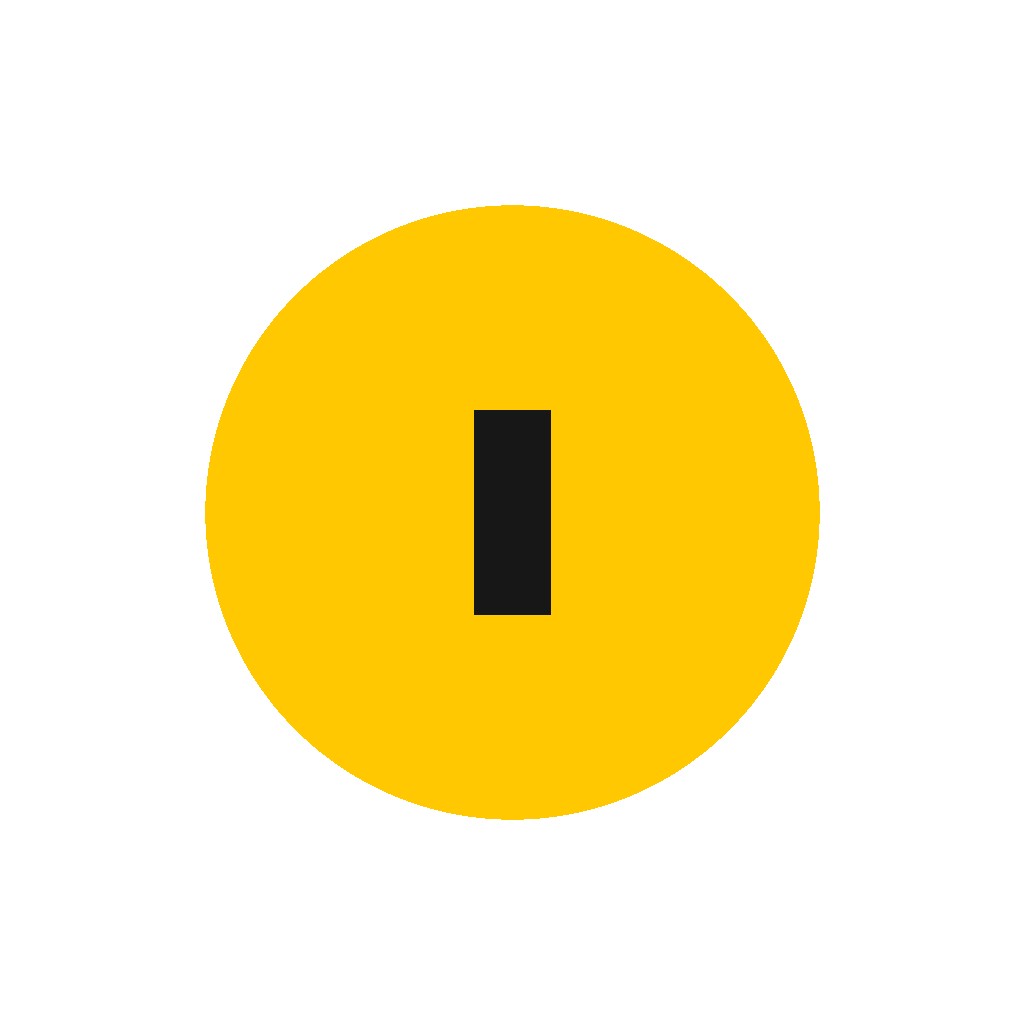
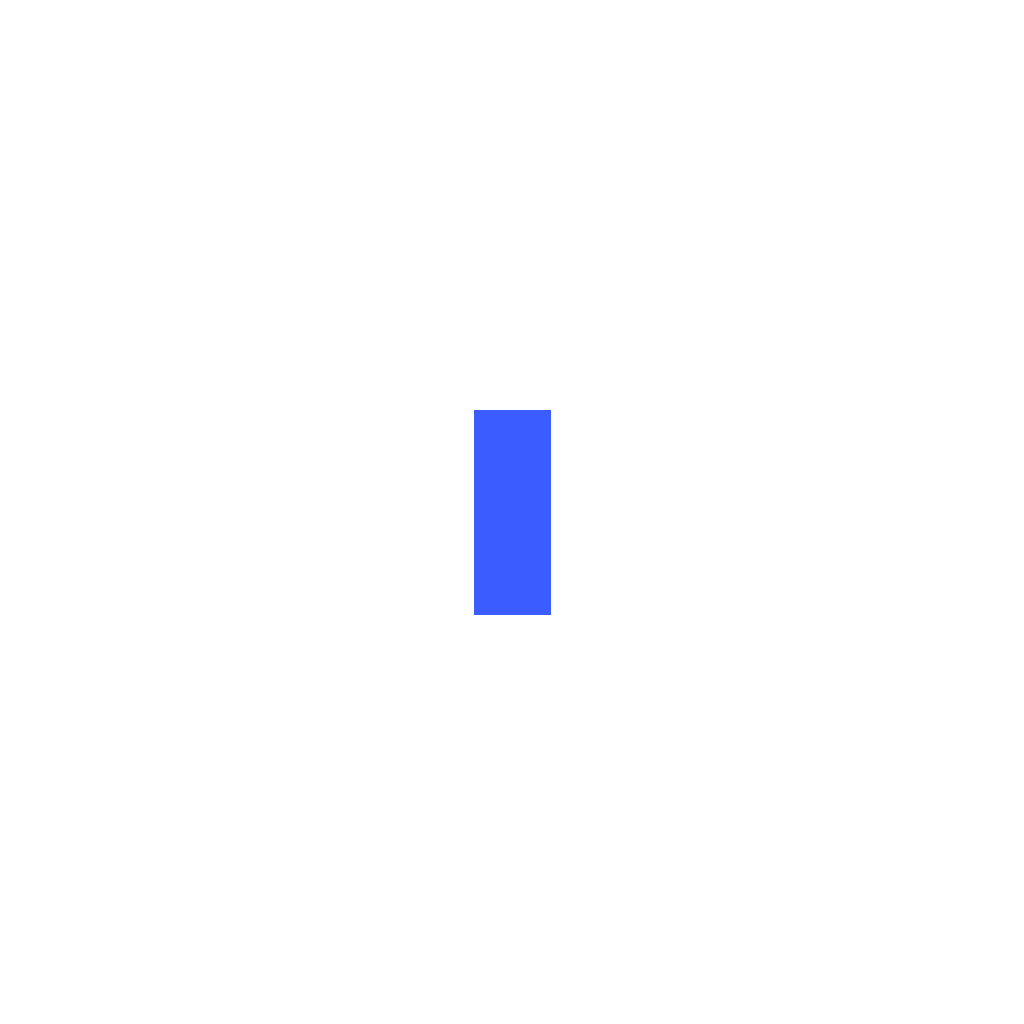
Rebrand to blue + redesign Registros (Monifi-inspired)
Scoped redesign pass, first of several planned screen-by-screen:

- src/theme/colors.ts: new blue-based palette (colors.brand/brandDark/
  brandTint/onBrand) replacing the yellow one, per the user's choice to
  match the Monifi reference. Shared chrome (Header, PrimaryButton, FAB,
  tab bar active tint, category-selected accent, progress ring/bar) picks
  this up automatically.
- app/(tabs)/index.tsx (Registros): full relayout — big rounded blue hero
  card with the month picker as a pill, a prominent net 'Balance del mes',
  and two pill-shaped Gastos/Ingreso stat chips (Monifi's Request/Send
  pattern adapted to our two running totals). Transaction list is now
  flat white rounded rows instead of a bordered box-list.
- src/components/TransactionRow.tsx: bigger avatar, no hard borders,
  individual rounded cards with spacing instead of a boxed list.
- src/components/TransactionEditorModal.tsx: header is now a plain white
  bar (was solid yellow) with a bottom divider; the '=' key is solid
  brand blue with white text, 'Hoy' uses the light blue tint.
- app.json + assets/images/*: placeholder icon/splash regenerated in the
  new blue.

Not yet touched (next up, per plan): Cuadro, Informes, Yo layouts — they
already inherit the new blue accent via the shared components above, but
their own card/section layout is unchanged for now.

Claude-Session: https://claude.ai/code/session_016G8CdLTiiyQ35orVPFqvBT

Changed region(s): [[0.1875, 0.1875, 0.8125, 0.8125]]

diff --git a/mis-gastos-pro-native/app/(tabs)/index.tsx b/mis-gastos-pro-native/app/(tabs)/index.tsx
@@ -5,7 +5,7 @@ import { SafeAreaView } from 'react-native-safe-area-context';
 
 import { Header } from '@/src/components/Header';
 import { OptionPickerModal } from '@/src/components/OptionPickerModal';
-import { Card, EmptyState } from '@/src/components/ui';
+import { EmptyState } from '@/src/components/ui';
 import { TransactionRow } from '@/src/components/TransactionRow';
 import { categoryById, totals, transactionsForMonth, useStore } from '@/src/state/store';
 import { useToast } from '@/src/state/toast';
@@ -30,6 +30,7 @@ export default function HomeScreen() {
 
   const monthList = useMemo(() => transactionsForMonth(state, monthKey), [state, monthKey]);
   const monthTotals = useMemo(() => totals(monthList), [monthList]);
+  const balance = monthTotals.income - monthTotals.expense;
 
   const filtered = useMemo(() => {
     const q = search.trim().toLowerCase();
@@ -73,32 +74,45 @@ export default function HomeScreen() {
         keyExtractor={(g) => g.date}
         ListHeaderComponent={
           <>
-            <Card style={styles.hero}>
-              <Text style={styles.heroTitle}>Administrador de dinero</Text>
-              <View style={styles.periodStrip}>
-                <Pressable style={styles.periodBox} onPress={() => setMonthPickerOpen(true)}>
-                  <Text style={styles.metricLabel}>Periodo</Text>
-                  <Text style={styles.periodValue} numberOfLines={1} adjustsFontSizeToFit>
-                    {monthLabel}
-                  </Text>
-                </Pressable>
-                <View style={styles.metric}>
-                  <Text style={styles.metricLabel}>Gastos</Text>
-                  <Text style={[styles.metricValue, styles.expenseColor]} numberOfLines={1} adjustsFontSizeToFit>
-                    −{formatMoney(monthTotals.expense, state.currency)}
-                  </Text>
+            <View style={styles.hero}>
+              <Pressable style={styles.periodPill} onPress={() => setMonthPickerOpen(true)}>
+                <Text style={styles.periodPillText}>{monthLabel}</Text>
+                <Text style={styles.periodPillChevron}>⌄</Text>
+              </Pressable>
+
+              <Text style={styles.balanceLabel}>Balance del mes</Text>
+              <Text style={styles.balanceValue} numberOfLines={1} adjustsFontSizeToFit>
+                {formatMoney(balance, state.currency)}
+              </Text>
+
+              <View style={styles.statRow}>
+                <View style={styles.statPill}>
+                  <View style={[styles.statIconWrap, styles.statIconExpense]}>
+                    <Text style={styles.statIcon}>↙</Text>
+                  </View>
+                  <View style={{ flex: 1 }}>
+                    <Text style={styles.statLabel}>Gastos</Text>
+                    <Text style={styles.statValue} numberOfLines={1} adjustsFontSizeToFit>
+                      −{formatMoney(monthTotals.expense, state.currency)}
+                    </Text>
+                  </View>
                 </View>
-                <View style={styles.metric}>
-                  <Text style={styles.metricLabel}>Ingreso</Text>
-                  <Text style={[styles.metricValue, styles.incomeColor]} numberOfLines={1} adjustsFontSizeToFit>
-                    {formatMoney(monthTotals.income, state.currency)}
-                  </Text>
+                <View style={styles.statPill}>
+                  <View style={[styles.statIconWrap, styles.statIconIncome]}>
+                    <Text style={styles.statIcon}>↗</Text>
+                  </View>
+                  <View style={{ flex: 1 }}>
+                    <Text style={styles.statLabel}>Ingreso</Text>
+                    <Text style={styles.statValue} numberOfLines={1} adjustsFontSizeToFit>
+                      {formatMoney(monthTotals.income, state.currency)}
+                    </Text>
+                  </View>
                 </View>
               </View>
-            </Card>
+            </View>
 
             <View style={styles.searchRow}>
-              <TextInput style={styles.search} placeholder="Buscar por categoría, nota o cuenta" value={search} onChangeText={setSearch} />
+              <TextInput style={styles.search} placeholder="Buscar por categoría, nota o cuenta" value={search} onChangeText={setSearch} placeholderTextColor={colors.muted} />
               <Pressable style={styles.iconBtn} onPress={exportCsv}>
                 <Text style={{ fontSize: 16 }}>⇩</Text>
               </Pressable>
@@ -110,14 +124,14 @@ export default function HomeScreen() {
         renderItem={({ item }) => {
           const dayTotals = totals(item.items);
           return (
-            <View style={{ marginBottom: 4 }}>
+            <View style={styles.dayGroup}>
               <View style={styles.dayTitle}>
                 <Text style={styles.dayTitleText}>{dayLabel(item.date)}</Text>
-                <Text style={styles.dayTitleText}>
-                  Gastos: −{formatMoney(dayTotals.expense, state.currency)}  Ingreso: {formatMoney(dayTotals.income, state.currency)}
+                <Text style={styles.dayTitleTotals}>
+                  −{formatMoney(dayTotals.expense, state.currency)} · +{formatMoney(dayTotals.income, state.currency)}
                 </Text>
               </View>
-              <View style={styles.txList}>
+              <View>
                 {item.items.map((t) => (
                   <TransactionRow
                     key={t.id}
@@ -143,21 +157,55 @@ export default function HomeScreen() {
 
 const styles = StyleSheet.create({
   screen: { flex: 1, backgroundColor: colors.bg },
-  content: { padding: 14, paddingBottom: 24 },
-  hero: { backgroundColor: colors.yellow, padding: 18, borderWidth: 0 },
-  heroTitle: { textAlign: 'center', fontWeight: '900', fontSize: 19, marginBottom: 14, color: colors.ink },
-  periodStrip: { flexDirection: 'row', alignItems: 'flex-end', gap: 10 },
-  periodBox: { width: 118 },
-  periodValue: { fontSize: 22, fontWeight: '900', color: colors.ink },
-  metric: { flex: 1, alignItems: 'center' },
-  metricLabel: { color: colors.heroLabel, fontSize: 12, marginBottom: 4 },
-  metricValue: { fontSize: 20, fontWeight: '700', fontVariant: ['tabular-nums'] },
-  expenseColor: { color: '#A91F2C' },
-  incomeColor: { color: '#087B40' },
-  searchRow: { flexDirection: 'row', gap: 8, marginVertical: 13 },
+  content: { padding: 16, paddingBottom: 24 },
+  hero: {
+    backgroundColor: colors.brand,
+    borderRadius: 28,
+    padding: 22,
+    marginBottom: 16,
+    shadowColor: colors.brand,
+    shadowOpacity: 0.28,
+    shadowRadius: 18,
+    shadowOffset: { width: 0, height: 10 },
+    elevation: 3,
+  },
+  periodPill: {
+    alignSelf: 'flex-start',
+    flexDirection: 'row',
+    alignItems: 'center',
+    gap: 4,
+    backgroundColor: 'rgba(255,255,255,0.16)',
+    borderRadius: 999,
+    paddingVertical: 6,
+    paddingHorizontal: 12,
+    marginBottom: 16,
+  },
+  periodPillText: { color: colors.onBrand, fontWeight: '700', fontSize: 13 },
+  periodPillChevron: { color: colors.onBrand, fontSize: 13 },
+  balanceLabel: { color: colors.heroLabel, fontSize: 13, fontWeight: '600', marginBottom: 4 },
+  balanceValue: { color: colors.onBrand, fontSize: 34, fontWeight: '900', marginBottom: 18 },
+  statRow: { flexDirection: 'row', gap: 10 },
+  statPill: {
+    flex: 1,
+    flexDirection: 'row',
+    alignItems: 'center',
+    gap: 8,
+    backgroundColor: 'rgba(255,255,255,0.14)',
+    borderRadius: 16,
+    padding: 10,
+    minWidth: 0,
+  },
+  statIconWrap: { width: 28, height: 28, borderRadius: 14, alignItems: 'center', justifyContent: 'center' },
+  statIconExpense: { backgroundColor: 'rgba(224,60,68,0.55)' },
+  statIconIncome: { backgroundColor: 'rgba(18,183,106,0.55)' },
+  statIcon: { color: colors.onBrand, fontSize: 13, fontWeight: '900' },
+  statLabel: { color: colors.heroLabel, fontSize: 11, fontWeight: '600' },
+  statValue: { color: colors.onBrand, fontSize: 14, fontWeight: '800' },
+  searchRow: { flexDirection: 'row', gap: 8, marginBottom: 8 },
   search: { flex: 1, borderWidth: 1, borderColor: colors.line, backgroundColor: '#fff', borderRadius: 14, padding: 12, color: colors.ink },
   iconBtn: { borderWidth: 1, borderColor: colors.line, backgroundColor: '#fff', borderRadius: 14, minWidth: 46, alignItems: 'center', justifyContent: 'center' },
-  dayTitle: { flexDirection: 'row', flexWrap: 'wrap', justifyContent: 'space-between', rowGap: 2, paddingHorizontal: 4, paddingTop: 10, paddingBottom: 6 },
-  dayTitleText: { fontSize: 12, color: colors.muted, fontWeight: '700' },
-  txList: { backgroundColor: '#fff', borderRadius: 18, borderWidth: 1, borderColor: colors.line, overflow: 'hidden' },
+  dayGroup: { marginTop: 18 },
+  dayTitle: { flexDirection: 'row', flexWrap: 'wrap', justifyContent: 'space-between', rowGap: 2, paddingHorizontal: 4, paddingBottom: 8 },
+  dayTitleText: { fontSize: 13, color: colors.ink, fontWeight: '800' },
+  dayTitleTotals: { fontSize: 12, color: colors.muted, fontWeight: '600' },
 });

diff --git a/mis-gastos-pro-native/src/components/TransactionEditorModal.tsx b/mis-gastos-pro-native/src/components/TransactionEditorModal.tsx
@@ -178,7 +178,7 @@ const styles = StyleSheet.create({
   overlay: { flex: 1, backgroundColor: 'rgba(0,0,0,0.5)', justifyContent: 'flex-end' },
   kav: { maxHeight: '94%' },
   sheet: { backgroundColor: '#fff', borderTopLeftRadius: 26, borderTopRightRadius: 26, overflow: 'hidden' },
-  header: { backgroundColor: colors.yellow, paddingHorizontal: 16, paddingTop: 14, paddingBottom: 14 },
+  header: { backgroundColor: colors.card, borderBottomWidth: 1, borderBottomColor: colors.line, paddingHorizontal: 16, paddingTop: 14, paddingBottom: 14 },
   titleRow: { flexDirection: 'row', alignItems: 'center', justifyContent: 'space-between', marginBottom: 10 },
   title: { fontWeight: '900', fontSize: 16, color: colors.ink },
   segment: { flexDirection: 'row', borderWidth: 1, borderColor: '#222', borderRadius: 8, overflow: 'hidden' },
@@ -198,10 +198,10 @@ const styles = StyleSheet.create({
   memo: { backgroundColor: '#fff', borderRadius: 8, padding: 13, marginBottom: 10, color: colors.ink },
   keypad: { flexDirection: 'row', flexWrap: 'wrap', gap: 7 },
   key: { width: '23.2%', backgroundColor: '#fff', borderRadius: 7, minHeight: 54, alignItems: 'center', justifyContent: 'center' },
-  keyAction: { backgroundColor: '#fff7ce' },
-  keyEqual: { backgroundColor: colors.yellow },
+  keyAction: { backgroundColor: colors.brandTint },
+  keyEqual: { backgroundColor: colors.brand },
   keyText: { fontSize: 20, color: colors.ink },
-  keyEqualText: { fontWeight: '900' },
+  keyEqualText: { fontWeight: '900', color: colors.onBrand },
   dateAccount: { flexDirection: 'row', gap: 8, marginTop: 9 },
   field: { flex: 1, backgroundColor: '#fff', borderRadius: 8, padding: 12, justifyContent: 'center' },
   text: { color: colors.ink, fontWeight: '600' },

diff --git a/mis-gastos-pro-native/src/components/TransactionRow.tsx b/mis-gastos-pro-native/src/components/TransactionRow.tsx
@@ -10,7 +10,7 @@ import { CategoryBubble } from './CategoryBubble';
 export function TransactionRow({ tx, category, currency, onDelete }: { tx: Transaction; category: Category; currency: Currency; onDelete: () => void }) {
   return (
     <View style={styles.row}>
-      <CategoryBubble icon={category.icon} color={category.color} />
+      <CategoryBubble icon={category.icon} color={category.color} size={46} />
       <View style={styles.info}>
         <Text style={styles.name} numberOfLines={1}>
           {category.name}
@@ -31,12 +31,12 @@ export function TransactionRow({ tx, category, currency, onDelete }: { tx: Trans
 }
 
 const styles = StyleSheet.create({
-  row: { flexDirection: 'row', alignItems: 'center', gap: 11, padding: 12, borderBottomWidth: 1, borderBottomColor: '#f0f1f2' },
+  row: { flexDirection: 'row', alignItems: 'center', gap: 12, backgroundColor: colors.card, borderRadius: 18, padding: 12, marginBottom: 8 },
   info: { flex: 1, minWidth: 0 },
   name: { fontWeight: '700', color: colors.ink },
   sub: { color: colors.muted, fontSize: 12, marginTop: 1 },
   amount: { fontWeight: '800', fontVariant: ['tabular-nums'] },
   expense: { color: colors.expenseText },
   income: { color: colors.incomeText },
-  delete: { color: '#aaa', fontSize: 20, paddingHorizontal: 4 },
+  delete: { color: '#c3c6d1', fontSize: 20, paddingHorizontal: 4 },
 });

diff --git a/mis-gastos-pro-native/src/theme/colors.ts b/mis-gastos-pro-native/src/theme/colors.ts
@@ -1,19 +1,22 @@
-// Misma paleta amarilla de la versión web (mis-gastos-pro.html). La app es
-// de tema claro fijo, igual que el original.
+// Paleta azul tipo fintech (dirección visual tomada de la referencia
+// Monifi: tarjetas grandes redondeadas, botones tipo píldora, azul como
+// color de marca sobre fondo claro). La app sigue siendo de tema claro fijo.
 export const colors = {
-  yellow: '#FFD93D',
-  yellow2: '#FFC800',
-  ink: '#171717',
-  muted: '#777777',
-  bg: '#F4F5F7',
+  brand: '#3B5CFF',
+  brandDark: '#2A46D6',
+  brandTint: '#EAEFFF',
+  onBrand: '#FFFFFF',
+  ink: '#12162B',
+  muted: '#8A8FA3',
+  bg: '#F5F6FB',
   card: '#FFFFFF',
-  line: '#E9EAED',
-  danger: '#E84C4F',
-  success: '#1FA65A',
-  expenseText: '#9F2C34',
-  incomeText: '#147B48',
-  heroLabel: '#675900',
-  categorySelectedBorder: '#D4AA00',
-  categorySelectedBg: '#FFF8D0',
+  line: '#ECEEF5',
+  danger: '#E5484D',
+  success: '#12B76A',
+  expenseText: '#C0272D',
+  incomeText: '#0E9F6E',
+  heroLabel: 'rgba(255,255,255,0.72)',
+  categorySelectedBorder: '#3B5CFF',
+  categorySelectedBg: '#EAEFFF',
   warn: '#F59E0B',
 } as const;

diff --git a/mis-gastos-pro-native/app/(tabs)/_layout.tsx b/mis-gastos-pro-native/app/(tabs)/_layout.tsx
@@ -12,8 +12,8 @@ export default function TabLayout() {
     <Tabs
       screenOptions={{
         headerShown: false,
-        tabBarActiveTintColor: '#A18200',
-        tabBarInactiveTintColor: '#777777',
+        tabBarActiveTintColor: colors.brand,
+        tabBarInactiveTintColor: colors.muted,
         tabBarLabelStyle: { fontWeight: '700', fontSize: 11 },
         tabBarStyle: {
           backgroundColor: '#fff',
@@ -56,12 +56,17 @@ const styles = StyleSheet.create({
     width: 58,
     height: 58,
     borderRadius: 29,
-    backgroundColor: colors.yellow2,
+    backgroundColor: colors.brand,
     borderWidth: 5,
     borderColor: colors.bg,
     alignItems: 'center',
     justifyContent: 'center',
     marginTop: -20,
+    shadowColor: colors.brand,
+    shadowOpacity: 0.35,
+    shadowRadius: 10,
+    shadowOffset: { width: 0, height: 4 },
+    elevation: 4,
   },
-  fabText: { fontSize: 30, color: colors.ink, fontWeight: '600', lineHeight: 34 },
+  fabText: { fontSize: 30, color: colors.onBrand, fontWeight: '600', lineHeight: 34 },
 });

diff --git a/mis-gastos-pro-native/src/components/Header.tsx b/mis-gastos-pro-native/src/components/Header.tsx
@@ -19,7 +19,7 @@ export function Header({ title }: { title: string }) {
 
 const styles = StyleSheet.create({
   header: {
-    backgroundColor: colors.yellow,
+    backgroundColor: colors.bg,
     paddingHorizontal: 18,
     paddingTop: 17,
     paddingBottom: 13,
@@ -27,7 +27,7 @@ const styles = StyleSheet.create({
     alignItems: 'center',
     justifyContent: 'space-between',
   },
-  brand: { fontSize: 22, fontWeight: '900', color: colors.ink },
-  action: { backgroundColor: 'rgba(255,255,255,0.55)', borderRadius: 13, paddingVertical: 9, paddingHorizontal: 12 },
-  actionText: { fontWeight: '800', color: colors.ink },
+  brand: { fontSize: 24, fontWeight: '900', color: colors.ink },
+  action: { backgroundColor: colors.brand, borderRadius: 14, paddingVertical: 10, paddingHorizontal: 16 },
+  actionText: { fontWeight: '800', color: colors.onBrand },
 });

diff --git a/mis-gastos-pro-native/app/_layout.tsx b/mis-gastos-pro-native/app/_layout.tsx
@@ -19,9 +19,9 @@ const navTheme = {
   ...DefaultTheme,
   colors: {
     ...DefaultTheme.colors,
-    primary: colors.yellow2,
+    primary: colors.brand,
     background: colors.bg,
-    card: colors.yellow,
+    card: colors.card,
     text: colors.ink,
     border: colors.line,
     notification: colors.danger,
@@ -38,7 +38,7 @@ export default function RootLayout() {
             <Stack
               screenOptions={{
                 headerTintColor: colors.ink,
-                headerStyle: { backgroundColor: colors.yellow },
+                headerStyle: { backgroundColor: colors.card },
                 headerShadowVisible: false,
                 headerTitleStyle: { fontWeight: '800' },
               }}>

diff --git a/mis-gastos-pro-native/app/(tabs)/analytics.tsx b/mis-gastos-pro-native/app/(tabs)/analytics.tsx
@@ -144,6 +144,6 @@ const styles = StyleSheet.create({
   rank: { flexDirection: 'row', alignItems: 'center', gap: 10, paddingHorizontal: 15, paddingVertical: 11, borderBottomWidth: 1, borderBottomColor: colors.line, backgroundColor: colors.card },
   rankName: { fontWeight: '700', color: colors.ink },
   rankBar: { height: 7, backgroundColor: '#eee', borderRadius: 10, marginTop: 6, overflow: 'hidden' },
-  rankFill: { height: '100%', backgroundColor: colors.yellow, borderRadius: 10 },
+  rankFill: { height: '100%', backgroundColor: colors.brand, borderRadius: 10 },
   rankValue: { fontWeight: '700', color: colors.ink },
 });

diff --git a/mis-gastos-pro-native/src/components/ui.tsx b/mis-gastos-pro-native/src/components/ui.tsx
@@ -69,11 +69,11 @@ const styles = StyleSheet.create({
   primary: {
     width: '100%',
     borderRadius: 14,
-    backgroundColor: colors.yellow,
+    backgroundColor: colors.brand,
     paddingVertical: 13,
     alignItems: 'center',
   },
-  primaryText: { fontWeight: '900', color: colors.ink, fontSize: 15 },
+  primaryText: { fontWeight: '900', color: colors.onBrand, fontSize: 15 },
   textBtn: { fontWeight: '800', color: colors.ink, fontSize: 15 },
   empty: { padding: 30, paddingHorizontal: 18, alignItems: 'center' },
   emptyTitle: { fontWeight: '800', color: colors.ink, marginBottom: 5, fontSize: 15 },

diff --git a/mis-gastos-pro-native/app/categories.tsx b/mis-gastos-pro-native/app/categories.tsx
@@ -79,10 +79,10 @@ const styles = StyleSheet.create({
     left: 16,
     right: 16,
     bottom: 20,
-    backgroundColor: colors.yellow,
+    backgroundColor: colors.brand,
     borderRadius: 14,
     paddingVertical: 14,
     alignItems: 'center',
   },
-  addBtnText: { fontWeight: '900', color: colors.ink },
+  addBtnText: { fontWeight: '900', color: colors.onBrand },
 });

diff --git a/mis-gastos-pro-native/src/components/RingProgress.tsx b/mis-gastos-pro-native/src/components/RingProgress.tsx
@@ -22,7 +22,7 @@ export function RingProgress({ percent, label, value, size = 112 }: { percent: n
           cx={cx}
           cy={cy}
           r={r}
-          stroke={colors.yellow}
+          stroke={colors.brand}
           strokeWidth={stroke}
           fill="none"
           strokeDasharray={`${dash} ${circumference}`}
